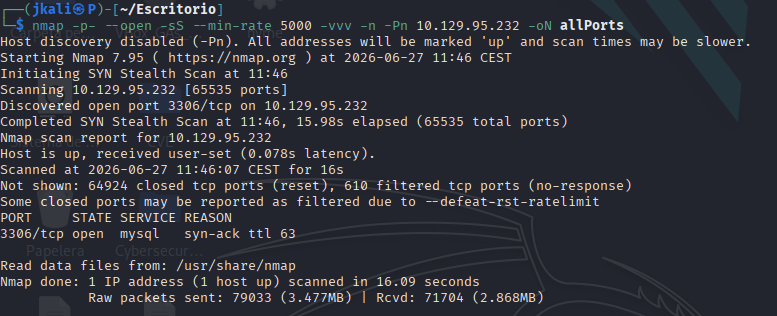
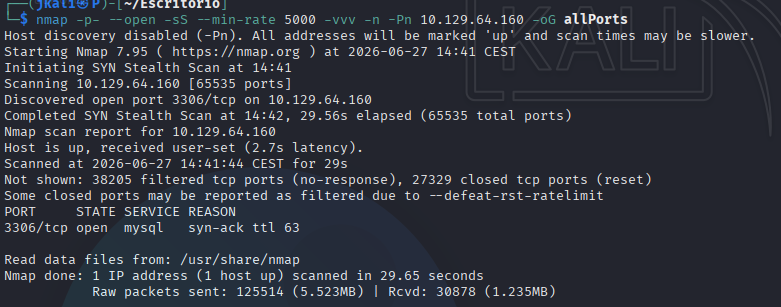
feat(add): finish sequel machine.

Changed region(s): [[0.0, 0.0, 0.9575, 0.7622], [0.0, 0.8208, 0.7104, 0.9674]]

diff --git a/HackTheBox/1. Starting_Point/Sequel/README.md b/HackTheBox/1. Starting_Point/Sequel/README.md
@@ -14,3 +14,20 @@ Now lets see deeper information about versions and services.
 
 ![alt text](./img/nmap2.png)
 
+The result comes up as a MariaDB. 
+
+# Foothold
+
+I couldn't access to the database in a normal way, so I decided to skip the conexión and send the query straight to the database.
+
+![alt text](./img/sql.png)
+
+Then inspect the database "htb":
+
+![alt text](./img/sql2.png)
+
+We see a "users" table, which may contain sensible information. Normally I would inspect that one, but seeing that we only have an instance of MySQL i'll inspect "config".
+
+![alt text](./img/sql3.png)
+
+And thare we have the flag!
